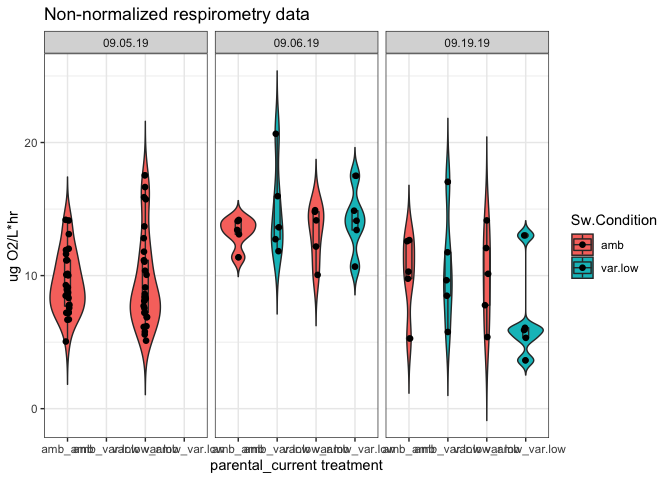
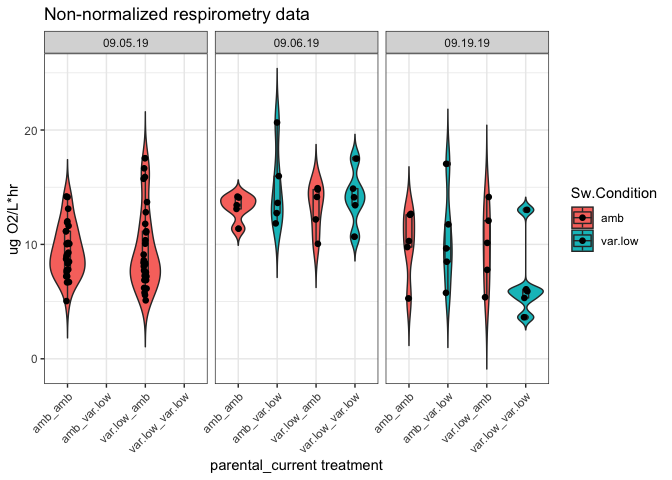
fix axis labels

diff --git a/amb_v_varlowpH_juvis/analyses/Respirometry/Resp.Calculations.ST.md b/amb_v_varlowpH_juvis/analyses/Respirometry/Resp.Calculations.ST.md
@@ -159,7 +159,7 @@ ggplot(CALC.table, aes(x = Parental.history,y = resp.RAW.µgLhr, fill = Sw.Condi
 **Violin plots with boxplot insets and jitter points for non-normalized data**
 
 ``` r
-ggplot(CALC.table, aes(x = hist.curr.treat,y = resp.RAW.µgLhr, fill = Sw.Condition)) + geom_violin(trim = FALSE) + geom_boxplot(width = 0.15) + geom_jitter(shape =16, size = 2,position= position_jitter(0.05)) +facet_wrap(~Date) + theme_bw() + ggtitle("Non-normalized respirometry data") + ylab("ug O2/L*hr") + xlab("parental_current treatment")
+ggplot(CALC.table, aes(x = hist.curr.treat,y = resp.RAW.µgLhr, fill = Sw.Condition)) + geom_violin(trim = FALSE) + geom_boxplot(width = 0.15) + geom_jitter(shape =16, size = 2,position= position_jitter(0.05)) +facet_wrap(~Date) + theme_bw() + ggtitle("Non-normalized respirometry data") + ylab("ug O2/L*hr") + xlab("parental_current treatment") + theme(axis.text.x = element_text(angle = 45, hjust = 1))
 ```
 
 ![](Resp.Calculations.ST_files/figure-markdown_github/unnamed-chunk-9-1.png)
@@ -216,7 +216,7 @@ ggplot(CALC.table, aes(x = Parental.history,y = resp.shell, fill = Sw.Condition)
 **Violin plots with boxplot insets and jitter points for shell length-normalized data**
 
 ``` r
-ggplot(CALC.table, aes(x = hist.curr.treat,y = resp.shell, fill = Sw.Condition)) + geom_violin(trim = FALSE) + geom_boxplot(width = 0.15) + geom_jitter(shape =16, size = 2,position= position_jitter(0.05)) +facet_wrap(~Date) + theme_bw() + ggtitle("Respirometry data normalized by shell length") + ylab("ug O2/L*hr*cm.shell.length") + xlab("parental_current treatment")
+ggplot(CALC.table, aes(x = hist.curr.treat,y = resp.shell, fill = Sw.Condition)) + geom_violin(trim = FALSE) + geom_boxplot(width = 0.15) + geom_jitter(shape =16, size = 2,position= position_jitter(0.05)) +facet_wrap(~Date) + theme_bw() + ggtitle("Respirometry data normalized by shell length") + ylab("ug O2/L*hr*cm.shell.length") + xlab("parental_current treatment") + theme(axis.text.x = element_text(angle = 45, hjust = 1))
 ```
 
 ![](Resp.Calculations.ST_files/figure-markdown_github/unnamed-chunk-14-1.png)
@@ -273,7 +273,7 @@ ggplot(CALC.table, aes(x = Parental.history,y = resp.weight, fill = Sw.Condition
 **Violin plots with boxplot insets and jitter points for wet weight-normalized data**
 
 ``` r
-ggplot(CALC.table, aes(x = hist.curr.treat,y = resp.weight, fill = Sw.Condition)) + geom_violin(trim = FALSE) + geom_boxplot(width = 0.15) + geom_jitter(shape =16, size = 2,position= position_jitter(0.05)) +facet_wrap(~Date) + theme_bw() + ggtitle("Respirometry data normalized by wet weight") + ylab("ug O2/L*hr*gram.wet.weight") + xlab("parental_current treatment")
+ggplot(CALC.table, aes(x = hist.curr.treat,y = resp.weight, fill = Sw.Condition)) + geom_violin(trim = FALSE) + geom_boxplot(width = 0.15) + geom_jitter(shape =16, size = 2,position= position_jitter(0.05)) +facet_wrap(~Date) + theme_bw() + ggtitle("Respirometry data normalized by wet weight") + ylab("ug O2/L*hr*gram.wet.weight") + xlab("parental_current treatment") + theme(axis.text.x = element_text(angle = 45, hjust = 1))
 ```
 
 ![](Resp.Calculations.ST_files/figure-markdown_github/unnamed-chunk-19-1.png)
